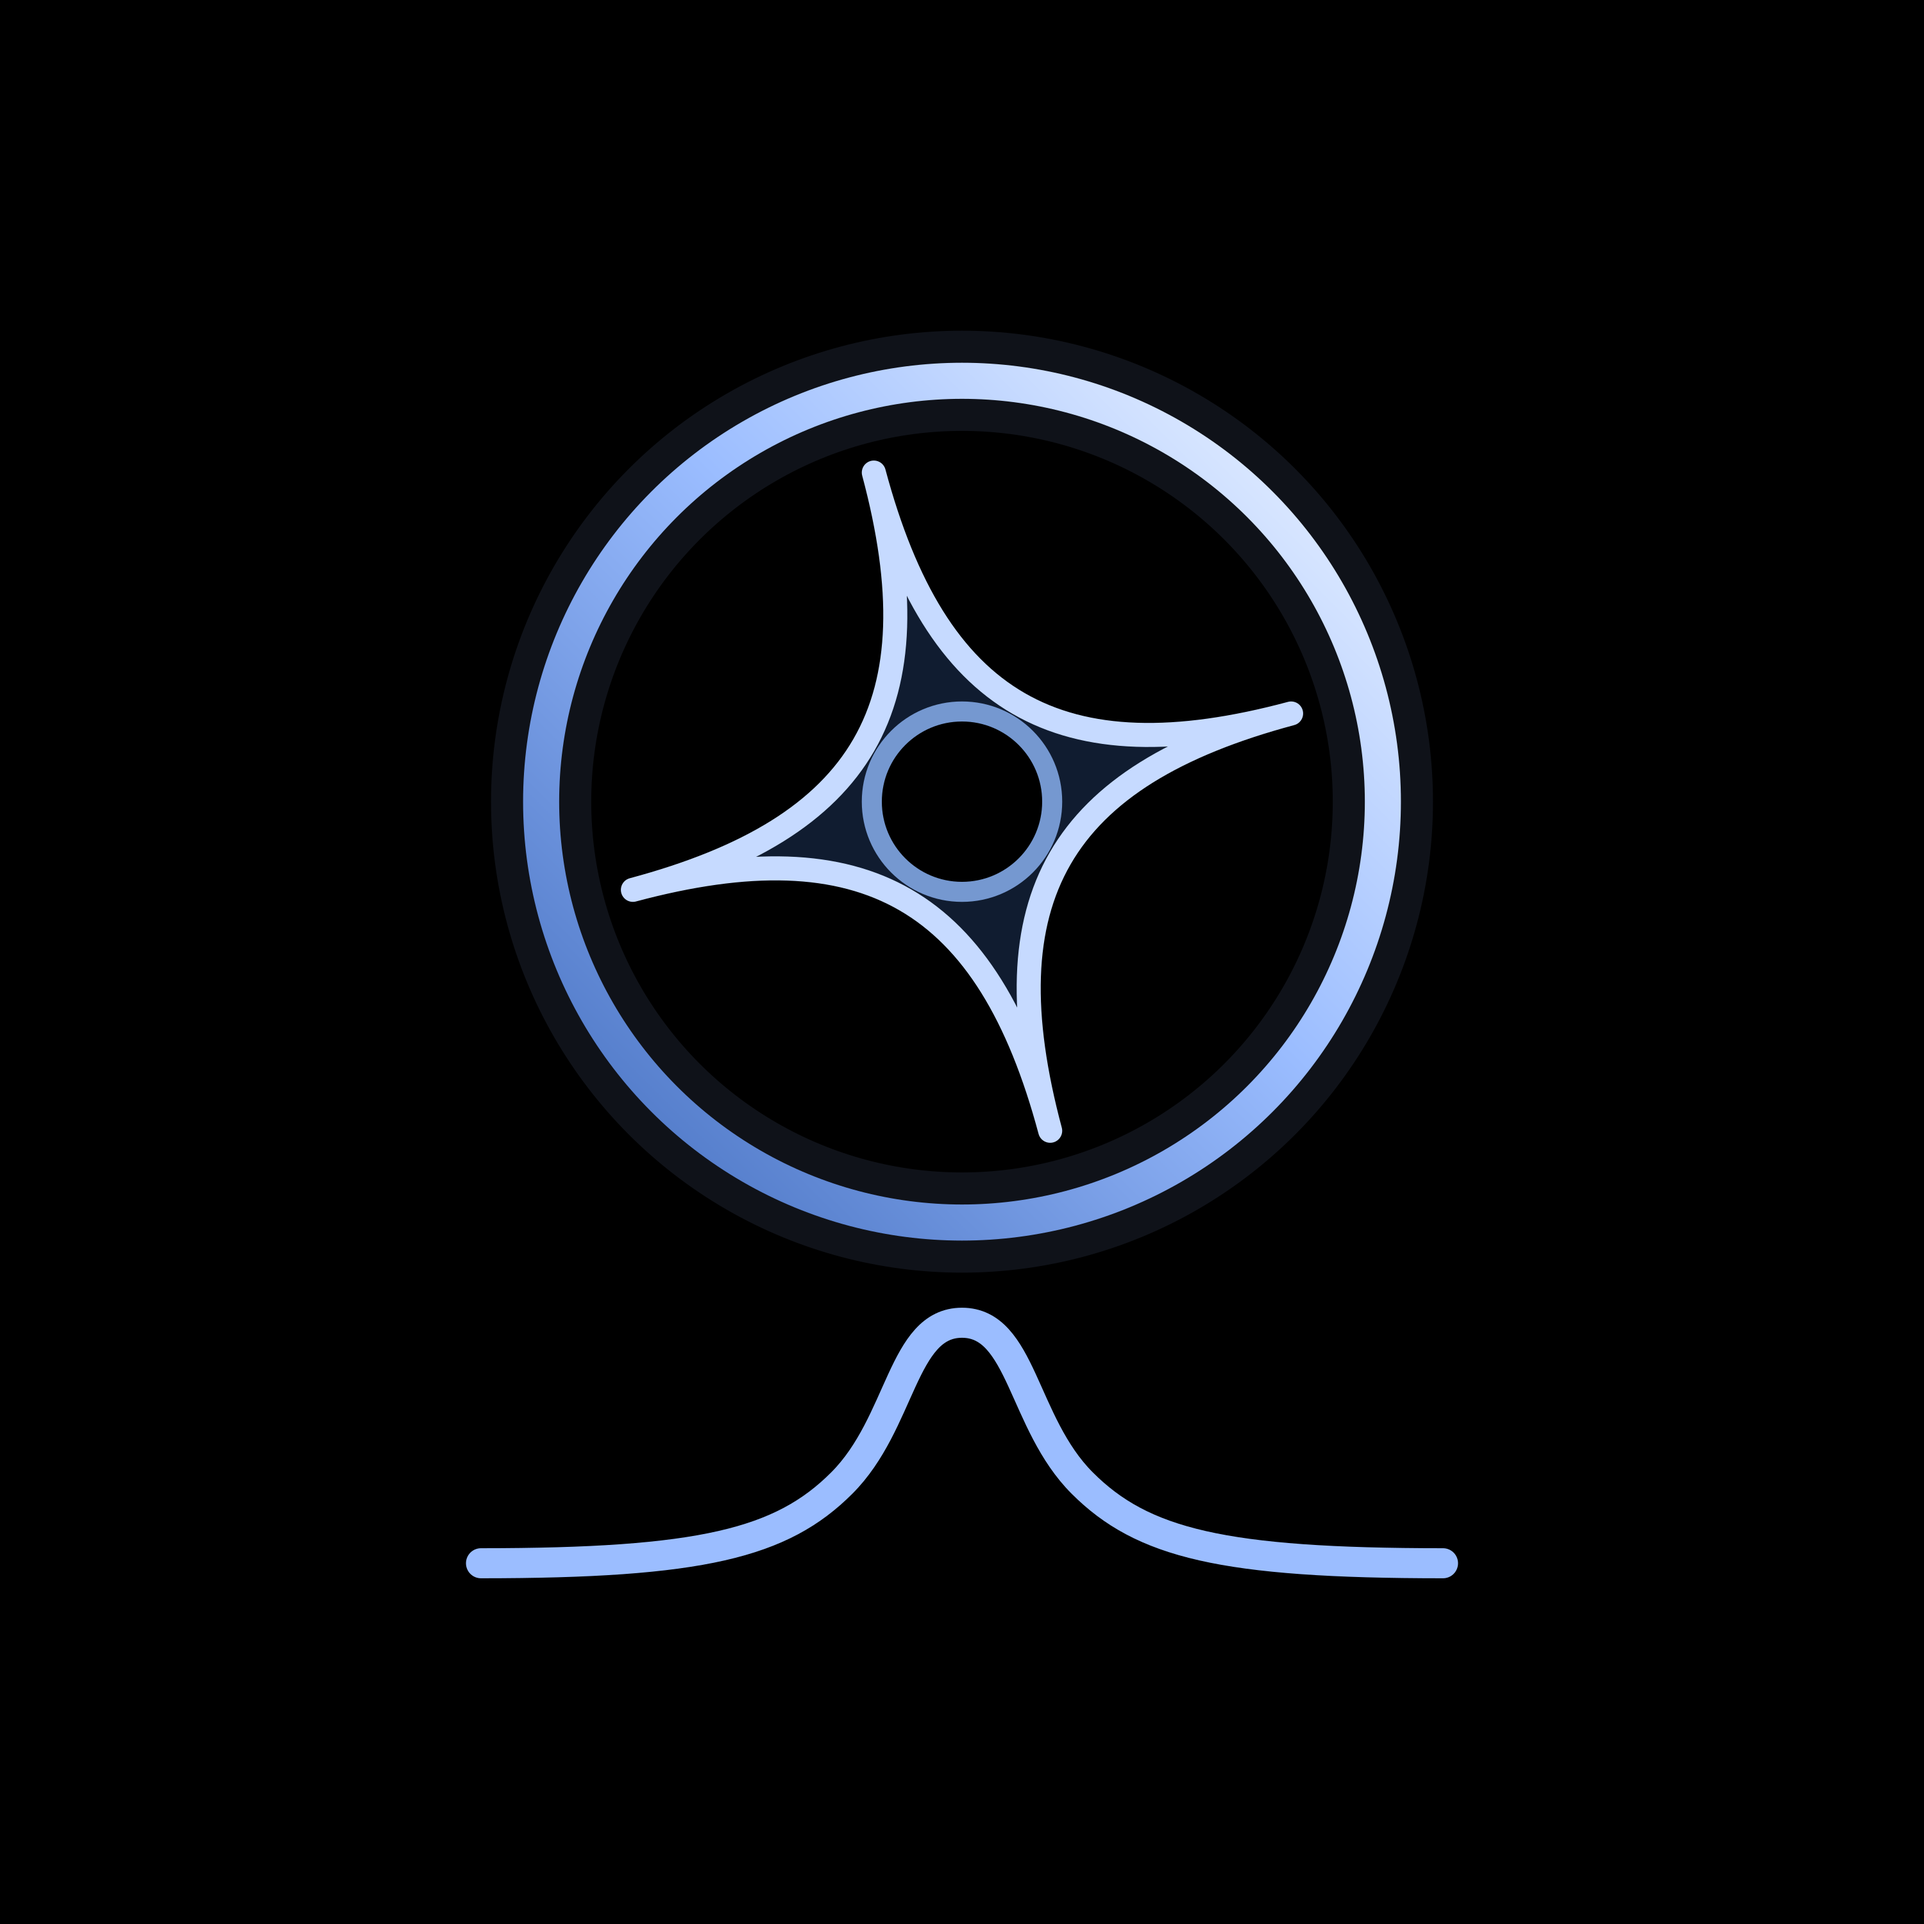
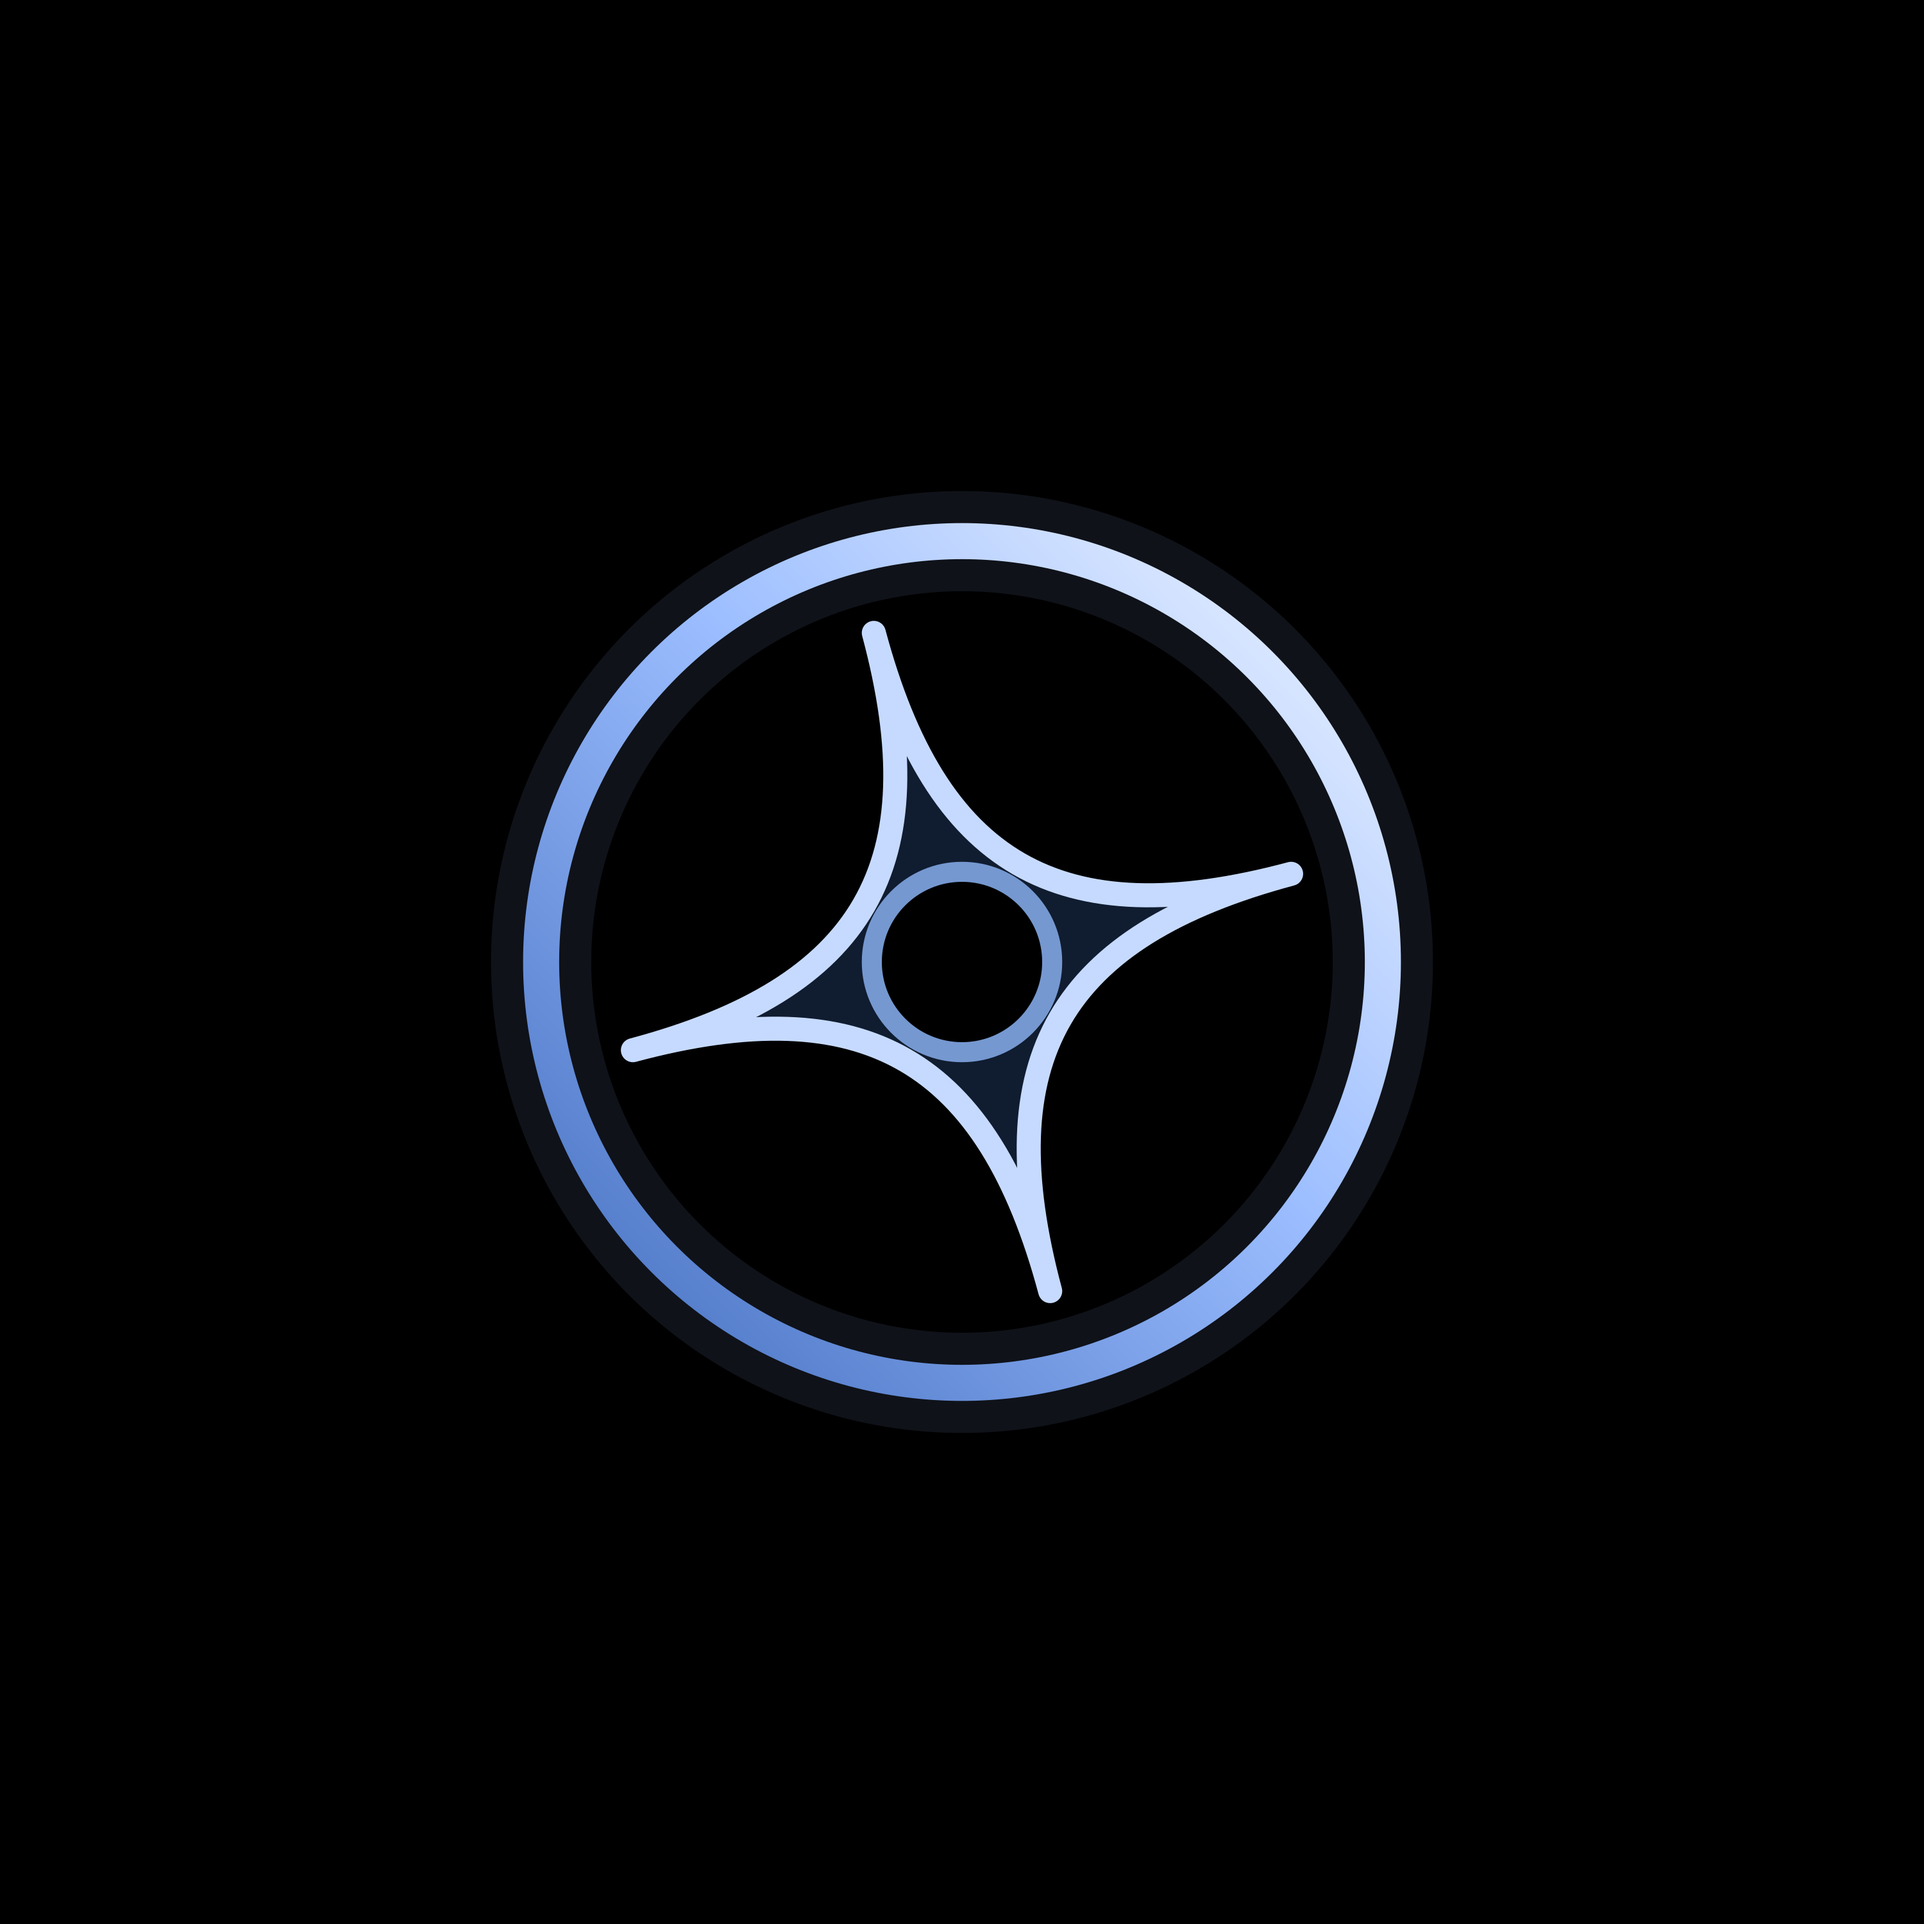
Remove light curve from emblem

Changed region(s): [[0.248, 0.155, 0.775, 0.837], [0.248, 0.775, 0.434, 0.837]]

diff --git a/themes/cobalt/templates/base.html b/themes/cobalt/templates/base.html
@@ -25,7 +25,7 @@
   <header class="site-header">
     <div class="shell header-inner">
       <a class="brand" href="{{ SITEURL }}/" aria-label="Black Hole Hunters home"><svg class="brand-black-hole"
-          viewBox="0 0 56 72" aria-hidden="true" focusable="false">
+          viewBox="0 0 56 56" aria-hidden="true" focusable="false">
           <defs>
             <linearGradient id="brand-ring-light" x1="0" y1="1" x2="1" y2="0">
               <stop offset="0" stop-color="#416cbd" />
@@ -39,7 +39,6 @@
             <path class="brand-caustic" d="M 28 11 C 28 23 33 28 45 28 C 33 28 28 33 28 45 C 28 33 23 28 11 28 C 23 28 28 23 28 11 Z" />
           </g>
           <circle class="brand-event-horizon" cx="28" cy="28" r="4.5" />
-          <path class="brand-light-curve" d="M 4 66 C 15 66 19 65 22 62 C 25 59 25 54 28 54 C 31 54 31 59 34 62 C 37 65 41 66 52 66" />
         </svg>Black Hole Hunters<span class="brand-caption">Citizen Science Project</span></a>
       <nav aria-label="Main navigation">{% for label, path in MENUITEMS %}<a href="{{ SITEURL }}{{ path }}" {% if (page
           is defined and ('/' ~ page.url.lstrip('/'))==path) or (page is not defined and path=='/news/' ) %}

diff --git a/themes/cobalt/static/css/site.css b/themes/cobalt/static/css/site.css
@@ -17,7 +17,6 @@ a:focus-visible, main:focus-visible { outline: 2px solid #bcd2ff; outline-offset
 .brand-einstein-ring { stroke: url(#brand-ring-light); stroke-width: 1.8; }
 .brand-caustic { fill: #101c30; stroke: #c6daff; stroke-width: 1.2; stroke-linejoin: round; }
 .brand-event-horizon { fill: #000; stroke: #7598d0; stroke-width: 1; }
-.brand-light-curve { stroke: var(--accent); stroke-width: 1.5; stroke-linecap: round; }
 nav { display: flex; flex-wrap: wrap; gap: 6px 23px; }
 nav a { color: var(--muted); text-decoration: none; font-size: 13px; padding: 10px 0; }
 nav a[aria-current] { color: var(--heading); box-shadow: 0 1px var(--accent); }
